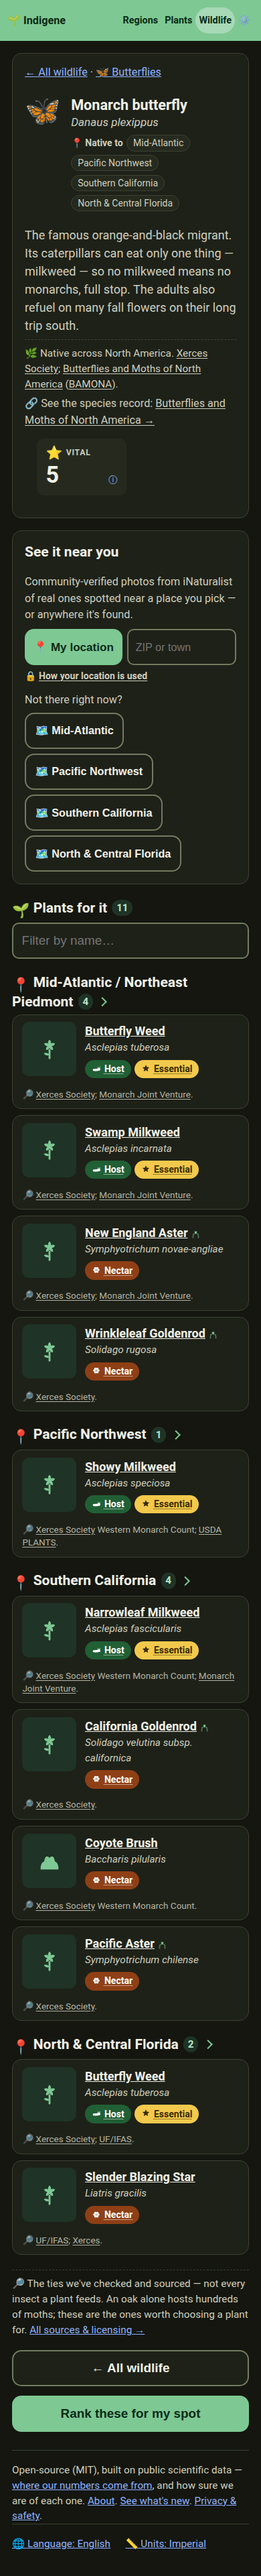
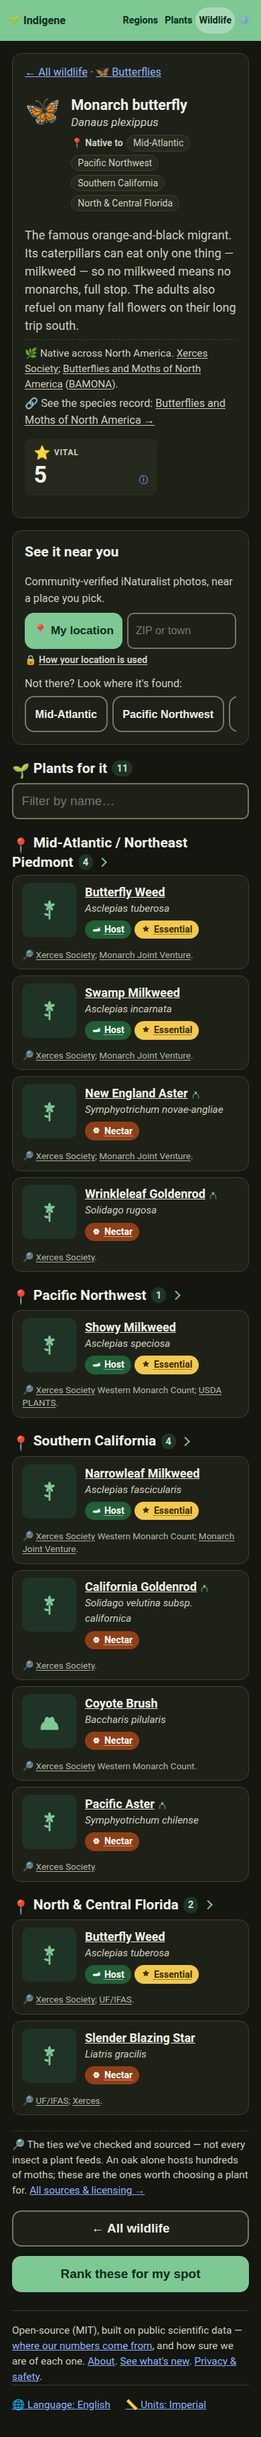
Put "see it near you" on a diet: one line of prose, one row of places
The card spent most of a phone screen on the alternative to its own
lookup. Two changes, both on the plant page's twin as well:

**One row of places.** A monarch is found in four regions, and each was
a full-width button stacked down the card — four rows for a fallback.
They are chips on a single scrolling line now, and a chip is only a
place: the question above it ("Not there? Look where it's found:")
supplies the verb, so the map emoji and "Where it's found" don't repeat
per button. A chip cut off at the edge is the sign there are more, and
every one is still a button, so tab reaches the ones off-screen.

On a laptop the row is right-aligned, which for a scroller has to be
`safe flex-end` — plain `flex-end` pushes an overflowing row off its own
left edge, where scrolling can't reach the first chip.

**One line of prose.** "Community-verified photos from iNaturalist of
real ones spotted near a place you pick — or anywhere it's found" was
three lines at 390px, and its second half described the row of chips
underneath it.

The monarch's page: 4878px on main, 3635px here.

Claude-Session: https://claude.ai/code/session_011kBroCVpHqAdAR7riv9XDP

diff --git a/app/src/locales/fr.ts b/app/src/locales/fr.ts
@@ -1859,7 +1859,7 @@ export const fr: Dict = {
   "nearby.foundNear": "Nous en avons trouvé {n} à proximité : ",
   "nearby.seeItGrowing": "La voir pousser près de chez vous",
   "nearby.seeItGrowingLede":
-    "Des photos vérifiées par la communauté iNaturalist, de vrais spécimens près d'un lieu que vous choisissez — ou partout où l'espèce est indigène.",
+    "Des photos iNaturalist vérifiées, près d'un lieu que vous choisissez.",
   "nearby.outsideYou":
     "Vous êtes en dehors des régions pour lesquelles Indigene a des données sur les plantes indigènes : nous ne pouvons donc pas garantir ce qui y est vraiment indigène — et nous ne ferons pas passer des observations voisines pour des indigènes locales. Les mesures de soleil, de sol et de climat fonctionnent partout.",
   "nearby.outsidePlace":
@@ -1878,8 +1878,7 @@ export const fr: Dict = {
     "observation de qualité recherche de {name} en {region} — vérifiée et photographiée par la communauté iNaturalist (vous n'avez pas besoin d'y être) :",
   "nearby.foundRest.other":
     "observations de qualité recherche de {name} en {region} — vérifiées et photographiées par la communauté iNaturalist (vous n'avez pas besoin d'y être) :",
-  "nearby.notThereNative": "Vous n'y êtes pas ?",
-  "nearby.whereNative": "Là où elle est indigène",
+  "nearby.notThereNative": "Pas sur place ? Là où elle est indigène :",
   "nearby.busy":
     "iNaturalist nous demande de ralentir : le service est très sollicité. Patientez une minute et réessayez.",
   "nearby.nativeToList": "indigène de {list}",
@@ -1888,7 +1887,7 @@ export const fr: Dict = {
     "Nos données donnent {name} comme {belongs}, et non de {region}. Elle peut apparaître sur iNaturalist là-bas comme sujet planté ou échappé de culture, mais nous ne la présenterons pas comme une indigène locale là où elle n'a pas sa place — ce serait le contraire de ce à quoi Indigene sert.",
   "wlNearby.seeItNear": "Le voir près de chez vous",
   "wlNearby.seeItNearLede":
-    "Des photos vérifiées par la communauté iNaturalist, de vrais individus observés près d'un lieu que vous choisissez — ou partout où l'espèce est présente.",
+    "Des photos iNaturalist vérifiées, près d'un lieu que vous choisissez.",
   "wlNearby.outsideYou":
     "Vous êtes en dehors des régions couvertes par Indigene : nous ne pouvons donc pas faire de recherche à proximité. Vous pouvez tout de même le chercher dans une région où il est présent, ci-dessous.",
   "wlNearby.outsidePlace":
@@ -1905,8 +1904,7 @@ export const fr: Dict = {
     "observation de qualité recherche de {name} en {region} — vérifiée et photographiée par la communauté iNaturalist (vous n'avez pas besoin d'y être) :",
   "wlNearby.foundRest.other":
     "observations de qualité recherche de {name} en {region} — vérifiées et photographiées par la communauté iNaturalist (vous n'avez pas besoin d'y être) :",
-  "wlNearby.notThereFound": "Vous n'y êtes pas ?",
-  "wlNearby.whereFound": "Là où il est présent",
+  "wlNearby.notThereFound": "Pas sur place ? Là où il est présent :",
 
   // ---------------------------------------------------------------------
   // Écorégions.

diff --git a/app/src/locales/en.ts b/app/src/locales/en.ts
@@ -1847,8 +1847,9 @@ export const en = {
   "nearby.found": "Found {n} ",
   "nearby.foundNear": "Found {n} nearby ",
   "nearby.seeItGrowing": "See it growing near you",
+  // Two lines at the 360px floor, and the row of regions below says the rest.
   "nearby.seeItGrowingLede":
-    "Real, community-verified iNaturalist photos of one growing near a spot you pick — or anywhere it's native.",
+    "Community-verified iNaturalist photos, near a spot you pick.",
   "nearby.outsideYou":
     "You're outside the regions Indigene has native-plant data for, so we can't vouch for what's truly native there — and we won't dress up nearby sightings as local natives. The sun, soil and climate readings still work everywhere.",
   "nearby.outsidePlace":
@@ -1867,8 +1868,7 @@ export const en = {
     "research-grade sighting of {name} in {region} — verified and photographed by the iNaturalist community (you don't have to be there):",
   "nearby.foundRest.other":
     "research-grade sightings of {name} in {region} — verified and photographed by the iNaturalist community (you don't have to be there):",
-  "nearby.notThereNative": "Not there right now?",
-  "nearby.whereNative": "Where it's native",
+  "nearby.notThereNative": "Not there? Look where it's native:",
   "nearby.busy":
     "iNaturalist asked us to slow down — it's busy right now. Give it a minute and try again.",
   "nearby.nativeToList": "native to {list}",
@@ -1877,7 +1877,7 @@ export const en = {
     "Our data lists {name} as {belongs}, not {region}. It may turn up on iNaturalist there as a planted or escaped specimen, but we won't showcase it as a local native where it doesn't belong — that's the opposite of what Indigene is for.",
   "wlNearby.seeItNear": "See it near you",
   "wlNearby.seeItNearLede":
-    "Community-verified photos from iNaturalist of real ones spotted near a place you pick — or anywhere it's found.",
+    "Community-verified iNaturalist photos, near a place you pick.",
   "wlNearby.outsideYou":
     "You're outside the regions Indigene covers, so we can't do a nearby lookup there. You can still look it up in a region where it's found, below.",
   "wlNearby.outsidePlace":
@@ -1892,8 +1892,7 @@ export const en = {
     "research-grade sighting of {name} in {region} — verified and photographed by the iNaturalist community (you don't have to be there):",
   "wlNearby.foundRest.other":
     "research-grade sightings of {name} in {region} — verified and photographed by the iNaturalist community (you don't have to be there):",
-  "wlNearby.notThereFound": "Not there right now?",
-  "wlNearby.whereFound": "Where it's found",
+  "wlNearby.notThereFound": "Not there? Look where it's found:",
 
   // ---------------------------------------------------------------------
   // Ecoregion labels. The EEA's eleven regions have a settled name in each

diff --git a/app/src/components/nearby-observations.ts b/app/src/components/nearby-observations.ts
@@ -289,12 +289,11 @@ export function nearbyObservationsSection(plant: Plant): HTMLElement {
       .map((id) => REGIONS.find((r) => r.meta.id === id))
       .filter((r): r is RegionDef => Boolean(r));
     if (!regions.length) return null;
-    // The label leans on the line above it. With one native region there is
-    // nothing to choose between, so the button says what it does and skips the
-    // name entirely; with several it needs to tell them apart, and the short
-    // form does that without the parenthetical qualifier that made the full name
-    // wrap ("Pacific Northwest", not "Pacific Northwest (west of the Cascades)").
-    const many = regions.length > 1;
+    // A chip is a place and nothing else — the question above it supplies the
+    // verb, so neither the map emoji nor "Where it's native" has to be repeated
+    // per button. The short form keeps the parenthetical qualifier out of it
+    // ("Pacific Northwest", not "Pacific Northwest (west of the Cascades)");
+    // the row itself scrolls rather than stacks (see `.obs-elsewhere-row`).
     return el("div", { class: "obs-elsewhere" }, [
       el("p", { class: "obs-elsewhere-lede" }, t("nearby.notThereNative")),
       el("div", { class: "obs-elsewhere-row" },
@@ -303,7 +302,7 @@ export function nearbyObservationsSection(plant: Plant): HTMLElement {
             type: "button",
             class: "btn btn-secondary btn-compact",
             onClick: () => void loadRegion(r, btn),
-          }, `🗺 ${many ? regionShort(r.meta) : t("nearby.whereNative")}`) as HTMLButtonElement;
+          }, regionShort(r.meta)) as HTMLButtonElement;
           return btn;
         }),
       ),

diff --git a/app/src/styles.css b/app/src/styles.css
@@ -3524,10 +3524,29 @@ details.weights {
   font-size: 0.9rem;
   color: var(--ink-soft);
 }
+/* One line of places, whatever the count. Wrapped, an animal found in five
+   regions was five full-width buttons stacked down the card — more of the
+   phone screen than the lookup they're an alternative to. It scrolls sideways
+   instead, with a chip cut off at the edge as the sign there are more; every
+   chip is still a button, so tabbing reaches the ones off-screen and the row
+   follows the focus. */
 .obs-elsewhere-row {
   display: flex;
-  flex-wrap: wrap;
+  flex-wrap: nowrap;
   gap: 0.4rem;
+  overflow-x: auto;
+  overscroll-behavior-x: contain;
+  scroll-snap-type: x proximity;
+  scrollbar-width: none;
+  /* A row cut off mid-chip reads as scrollable; a row cut off mid-*border*
+     reads as a bug, so the last chip gets a hair of room past it. */
+  padding-right: 0.15rem;
+}
+.obs-elsewhere-row::-webkit-scrollbar {
+  display: none;
+}
+.obs-elsewhere-row > .btn {
+  scroll-snap-align: start;
 }
 .btn-compact {
   flex: 0 1 auto;
@@ -4329,8 +4348,12 @@ body[data-layout="profile"] .wip-banner-text {
     margin-top: 0.5rem;
     text-align: right;
   }
+  /* `safe`, because the row is a scroller now: plain `flex-end` pushes an
+     overflowing row off its own left edge, where no amount of scrolling can
+     reach the first chip. Safe alignment gives up and starts from the left the
+     moment the chips don't fit. */
   .wl-nearby > .obs-elsewhere .obs-elsewhere-row {
-    justify-content: flex-end;
+    justify-content: safe flex-end;
   }
 
   /* ---- The profile card, on either page ---- */

diff --git a/app/src/components/wildlife-nearby.ts b/app/src/components/wildlife-nearby.ts
@@ -138,9 +138,12 @@ export function wildlifeNearbySection(w: Wildlife): HTMLElement | null {
   function regionButtons(): HTMLElement | null {
     const regions = regionsForWildlife(w.id);
     if (!regions.length) return null;
-    // Same thrift as the plant twin: one region needs no name (the line above
-    // said it), several need only the short form to tell them apart.
-    const many = regions.length > 1;
+    // One line of chips, however many regions there are — an animal found in
+    // five of them used to be five full-width buttons stacked down the card,
+    // which is most of a phone screen spent on an alternative to the thing
+    // above it. The row scrolls sideways instead (see `.obs-elsewhere-row`),
+    // and the question above it names what the chips are, so a chip is only a
+    // place — no map emoji four times over, no "Where it's found" on each.
     return el("div", { class: "obs-elsewhere" }, [
       el("p", { class: "obs-elsewhere-lede" }, t("wlNearby.notThereFound")),
       el("div", { class: "obs-elsewhere-row" },
@@ -149,7 +152,7 @@ export function wildlifeNearbySection(w: Wildlife): HTMLElement | null {
             type: "button",
             class: "btn btn-secondary btn-compact",
             onClick: () => void loadRegion(r, btn),
-          }, `🗺 ${many ? regionShort(r.meta) : t("wlNearby.whereFound")}`) as HTMLButtonElement;
+          }, regionShort(r.meta)) as HTMLButtonElement;
           return btn;
         }),
       ),

diff --git a/CHANGELOG.md b/CHANGELOG.md
@@ -98,6 +98,12 @@ subtitle on the What's new page.
 - **And they're the boxes a saved spot has.** Host, Shelter, Vital — one word
   over a big number, matching your spots. Each word is the one the plants below
   wear, so you can see which five of eleven the box means.
+- **The sightings lookup opens in one line.** "See it near you", and a plant's
+  "See it growing near you", took three lines to say what they now say in one:
+  community-verified iNaturalist photos, near a place you pick.
+- **The other places to look are one row you can swipe.** A monarch is found in
+  four regions, and each was a full-width button down the card. They're chips on
+  a single line now, and each still runs the lookup there.
 - **"It's yours" now includes taking it with you.**
   [Privacy](https://indigene.app/privacy) and [About](https://indigene.app/about)
   both say so, and Privacy links straight to the button that does it.
